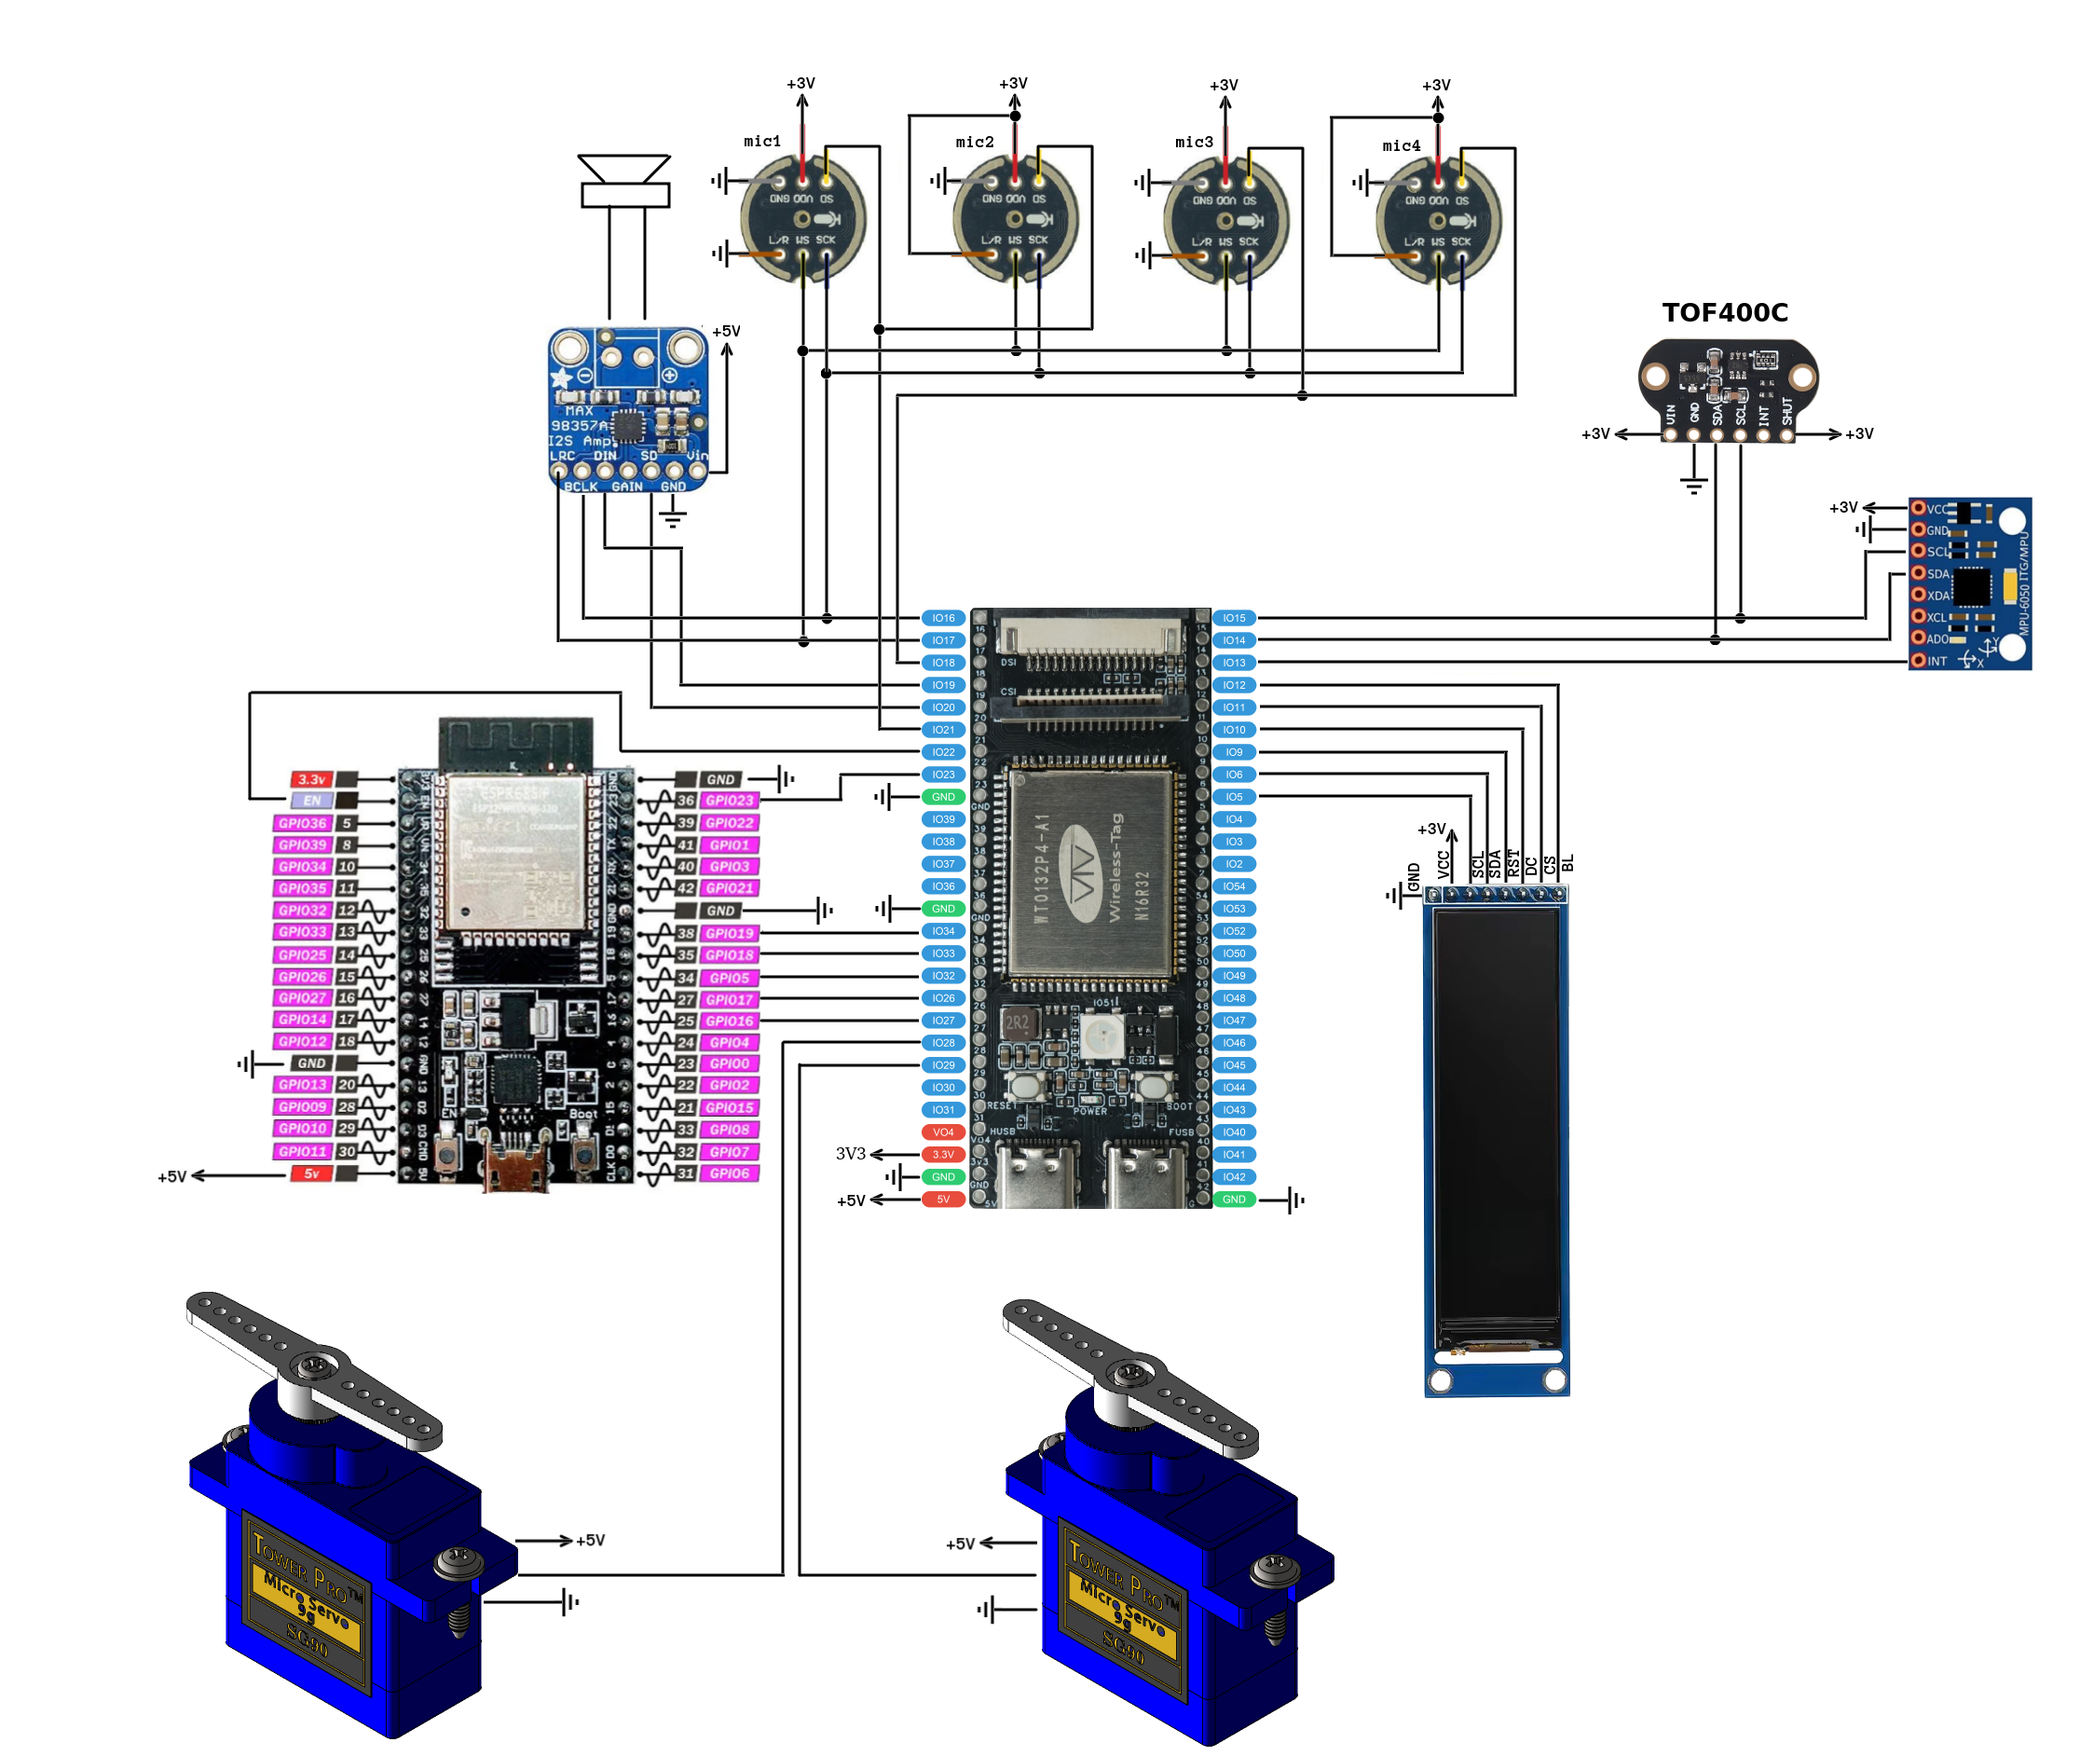
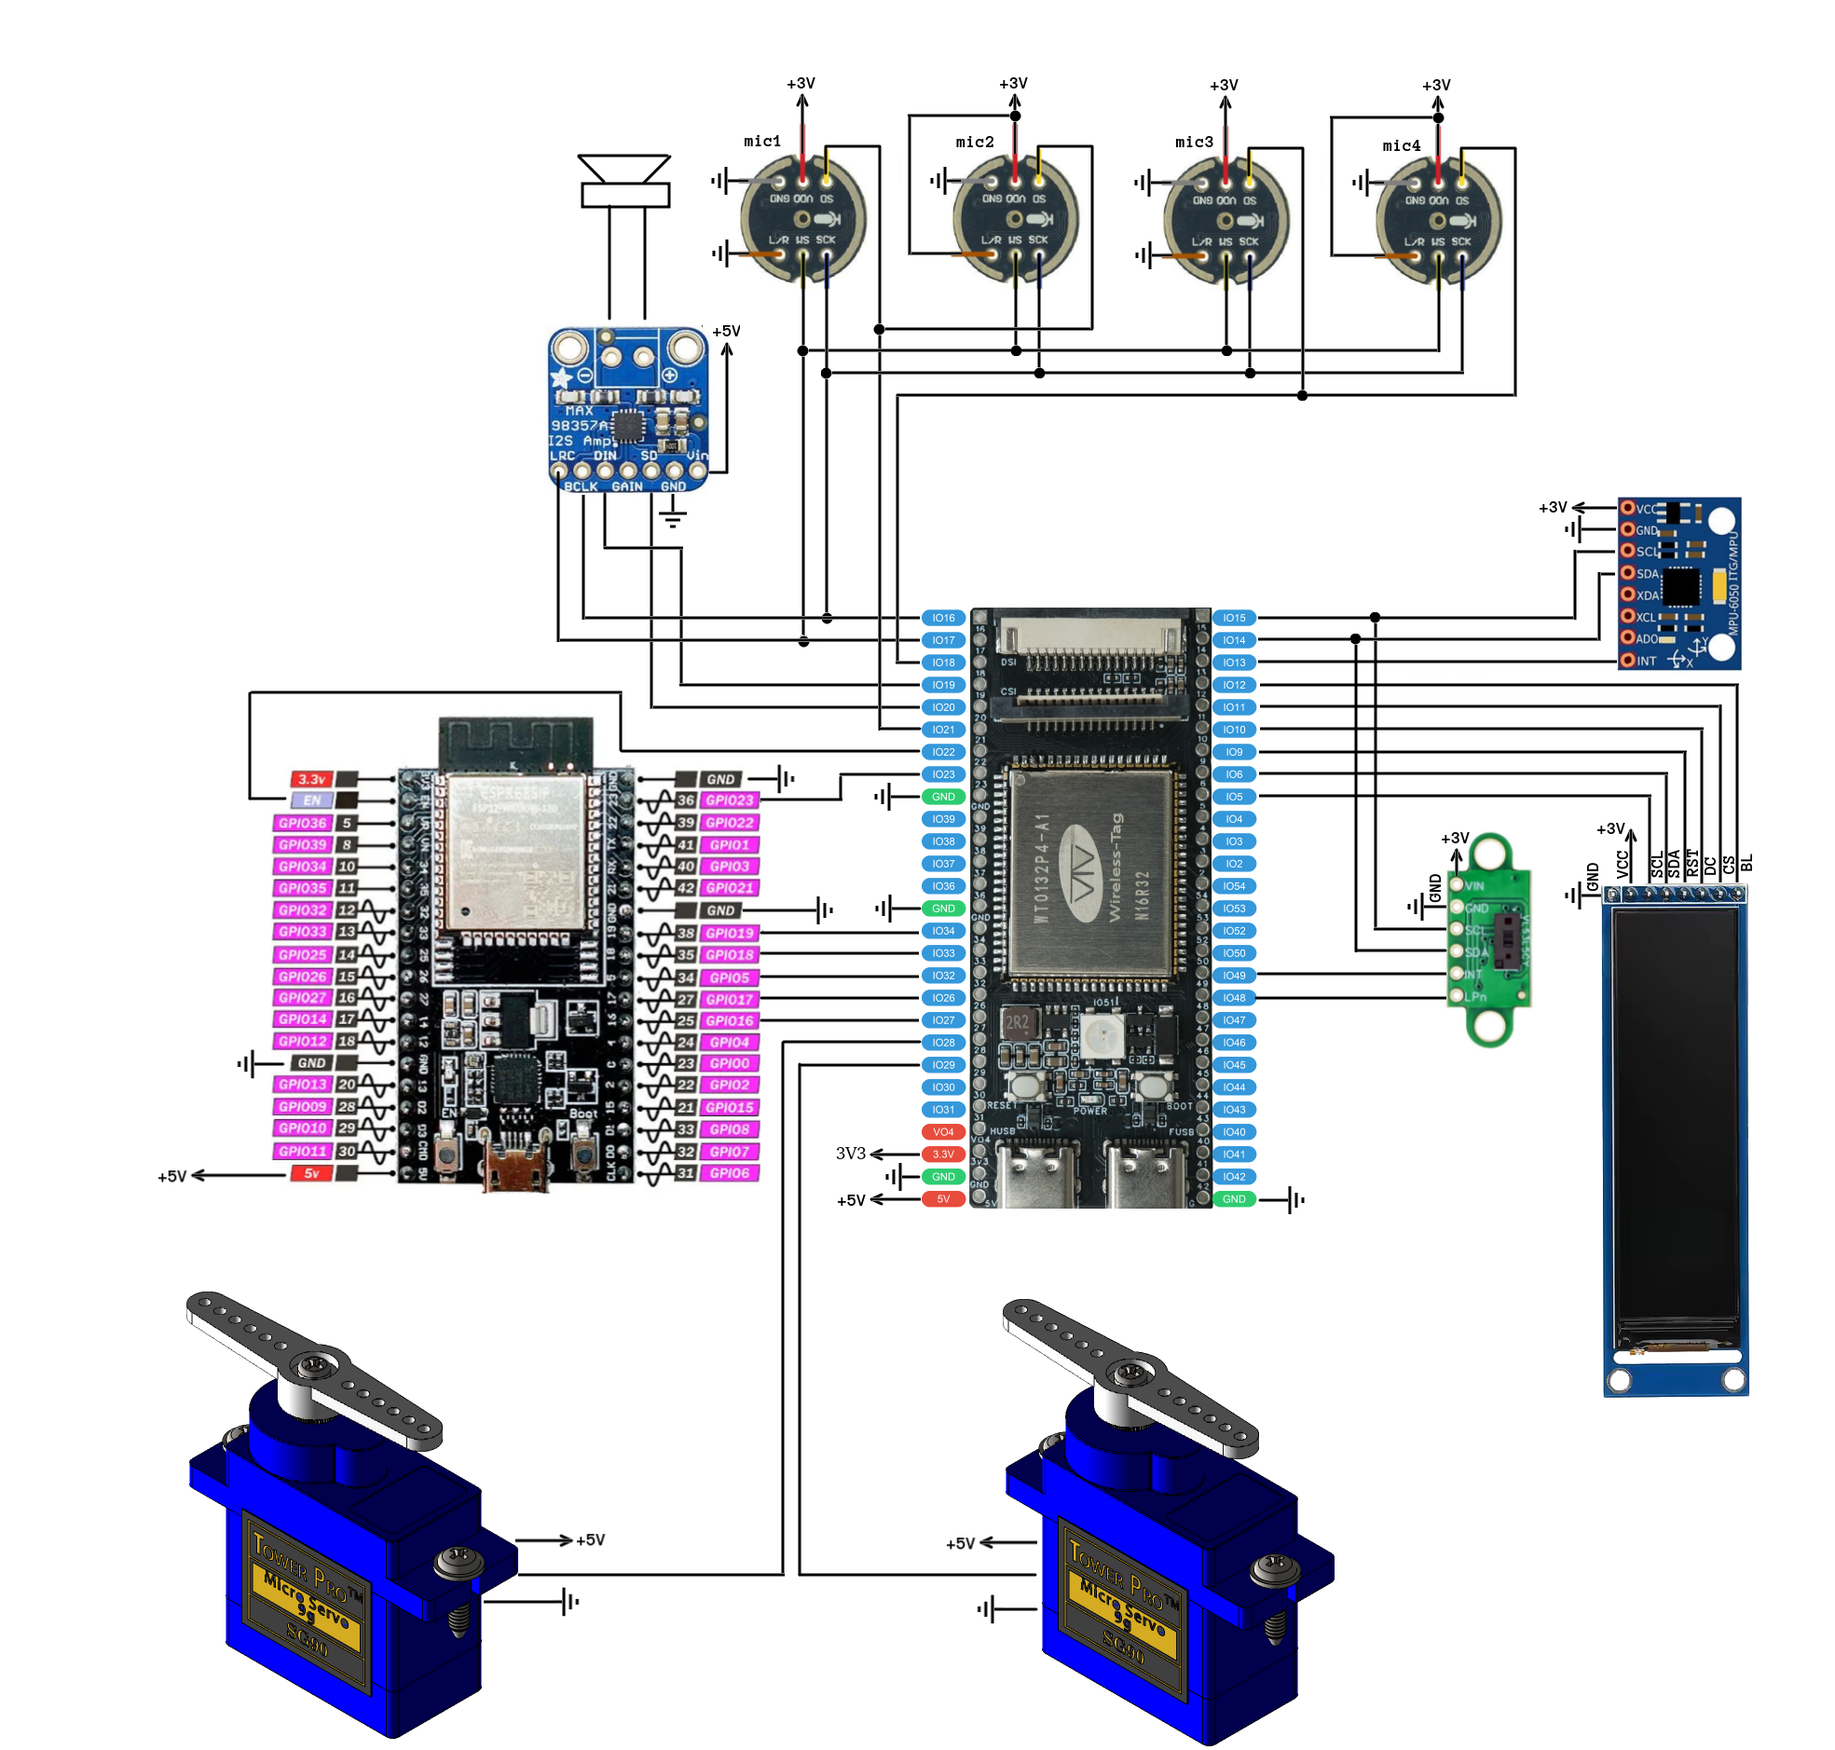
Updated schematic

diff --git a/MaxiBot/Docs/README.md b/MaxiBot/Docs/README.md
@@ -32,7 +32,7 @@ Wiring follows [Schematic.png](Schematic.png).
 | Speaker data out | IO19 | MAX98357A DIN |
 | Amp enable | IO20 | MAX98357A SD |
 | MPU6050 SCL / SDA / INT | IO15 / IO14 / IO13 | GY-521, AD0 to GND (0x68) |
-| TOF400C SCL / SDA / INT | IO15 / IO14 / IO49 | VL53L1X (0x29), same I2C bus as the MPU6050, XSHUT tied high |
+| VL53L5CX SCL / SDA / INT / LPn | IO15 / IO14 / IO49 / IO48 | 8x8 zone ToF (0x29), same I2C bus as the MPU6050; INT optional |
 | LCD SCL / SDA / RES / DC / CS / BL | IO5 / IO6 / IO9 / IO10 / IO11 / IO12 | ST7789; BL is active low (backlight on with IO12 low) |
 | Tilt servo / Pan servo | IO28 / IO29 | SG90 signal |
 | WROOM EN (reset) | IO22 | EN |
@@ -138,31 +138,38 @@ gyro calibrate
 
 ## Distance sensor
 
-One TOF400C (VL53L1X laser time-of-flight sensor) sits in the head next to
-the camera, so it measures what the camera sees: the distance to a face, an
-object being followed, or a wall. Range is up to about 4 m (less on dark
-surfaces and in sunlight), with one reading over a field of about 27°, at up
-to 50 Hz.
+One VL53L5CX (laser time-of-flight sensor) sits in the head next to the
+camera, so it measures what the camera sees: the distance to a face, an
+object being followed, or a wall. One reading gives 8x8 zones over about
+45°x45° (63° diagonal) at up to 15 Hz, or 4x4 zones at up to 60 Hz. Range is
+up to about 4 m (less on dark surfaces and in sunlight). One zone covers
+about 5.6°, so the centre zones give the distance to a face without the
+background behind it.
 
 - The sensor needs an open hole or an IR-transparent window right at its
-  lens. Plastic or glass in front of it reflects the laser back into it.
+  lens, wide enough for the full field of view. Plastic or glass in front of
+  it, or a casing edge inside the field of view, reflects the laser back
+  into it.
 - It shares the I2C bus with the MPU6050 (400 kHz). INT on IO49 is optional
-  ("data ready"); without it the firmware polls. XSHUT is tied high and is
-  only needed if a second VL53 sensor is added later.
-- **Scan**: standing still, the head pans in small steps and records the
-  distance at each angle, a slow scan of the room (about 5-10 s for 180°).
-  Together with the gyro heading this finds walls and doorways for
-  navigation later.
+  ("data ready"); without it the firmware polls.
+- LPn on IO48: low disables the sensor's I2C interface and stops ranging
+  (power down to save battery); low then high resets it if it hangs.
+- At boot the firmware uploads the sensor firmware (about 86 KB) over I2C,
+  which takes a few seconds at 400 kHz.
+- Camera IR LEDs are switched off during a scan.
+- **Scan**: standing still, the head pans and tilts in steps and records an
+  8x8 grid at each position. A 180° pan with tilt 0-90° in 30° steps is about
+  21 readings, roughly 7-10 s with servo settling. Together with the gyro
+  heading this finds walls, ceiling corners and doorways for navigation
+  later.
 - Obstacle sensors for driving belong on the base (its own ESP32), low and
   facing forward, because the head turns away when it looks at people.
 
 ```text
-tof                     distance in mm
-tof scan [from] [to] [step]   pan the head, print angle and distance
+tof                     centre distance in mm
+tof grid                8x8 distances in mm
+tof scan [from] [to] [step]   pan the head, print angle and grid
 ```
-
-If one reading at a time turns out too slow for scans, a VL53L5CX or
-VL53L7CX (8x8 zones in one reading) uses the same wiring.
 
 ## IR remote
 
@@ -280,5 +287,5 @@ Each phase ends with something testable on the robot. Status as of
 11. **IR remote.** RMT learn and send, `/ir` server endpoints, `ir ...`
     commands, then the gateway tool. Needs only phase 1 (and phase 7 for
     aiming), so it can move earlier.
-12. **Distance sensor.** TOF400C driver, `tof` reading, then `tof scan` with
-    the head servos. Needs phases 7 and 8.
+12. **Distance sensor.** VL53L5CX driver (ST ULD), `tof` reading, then
+    `tof scan` with the head servos. Needs phases 7 and 8.
